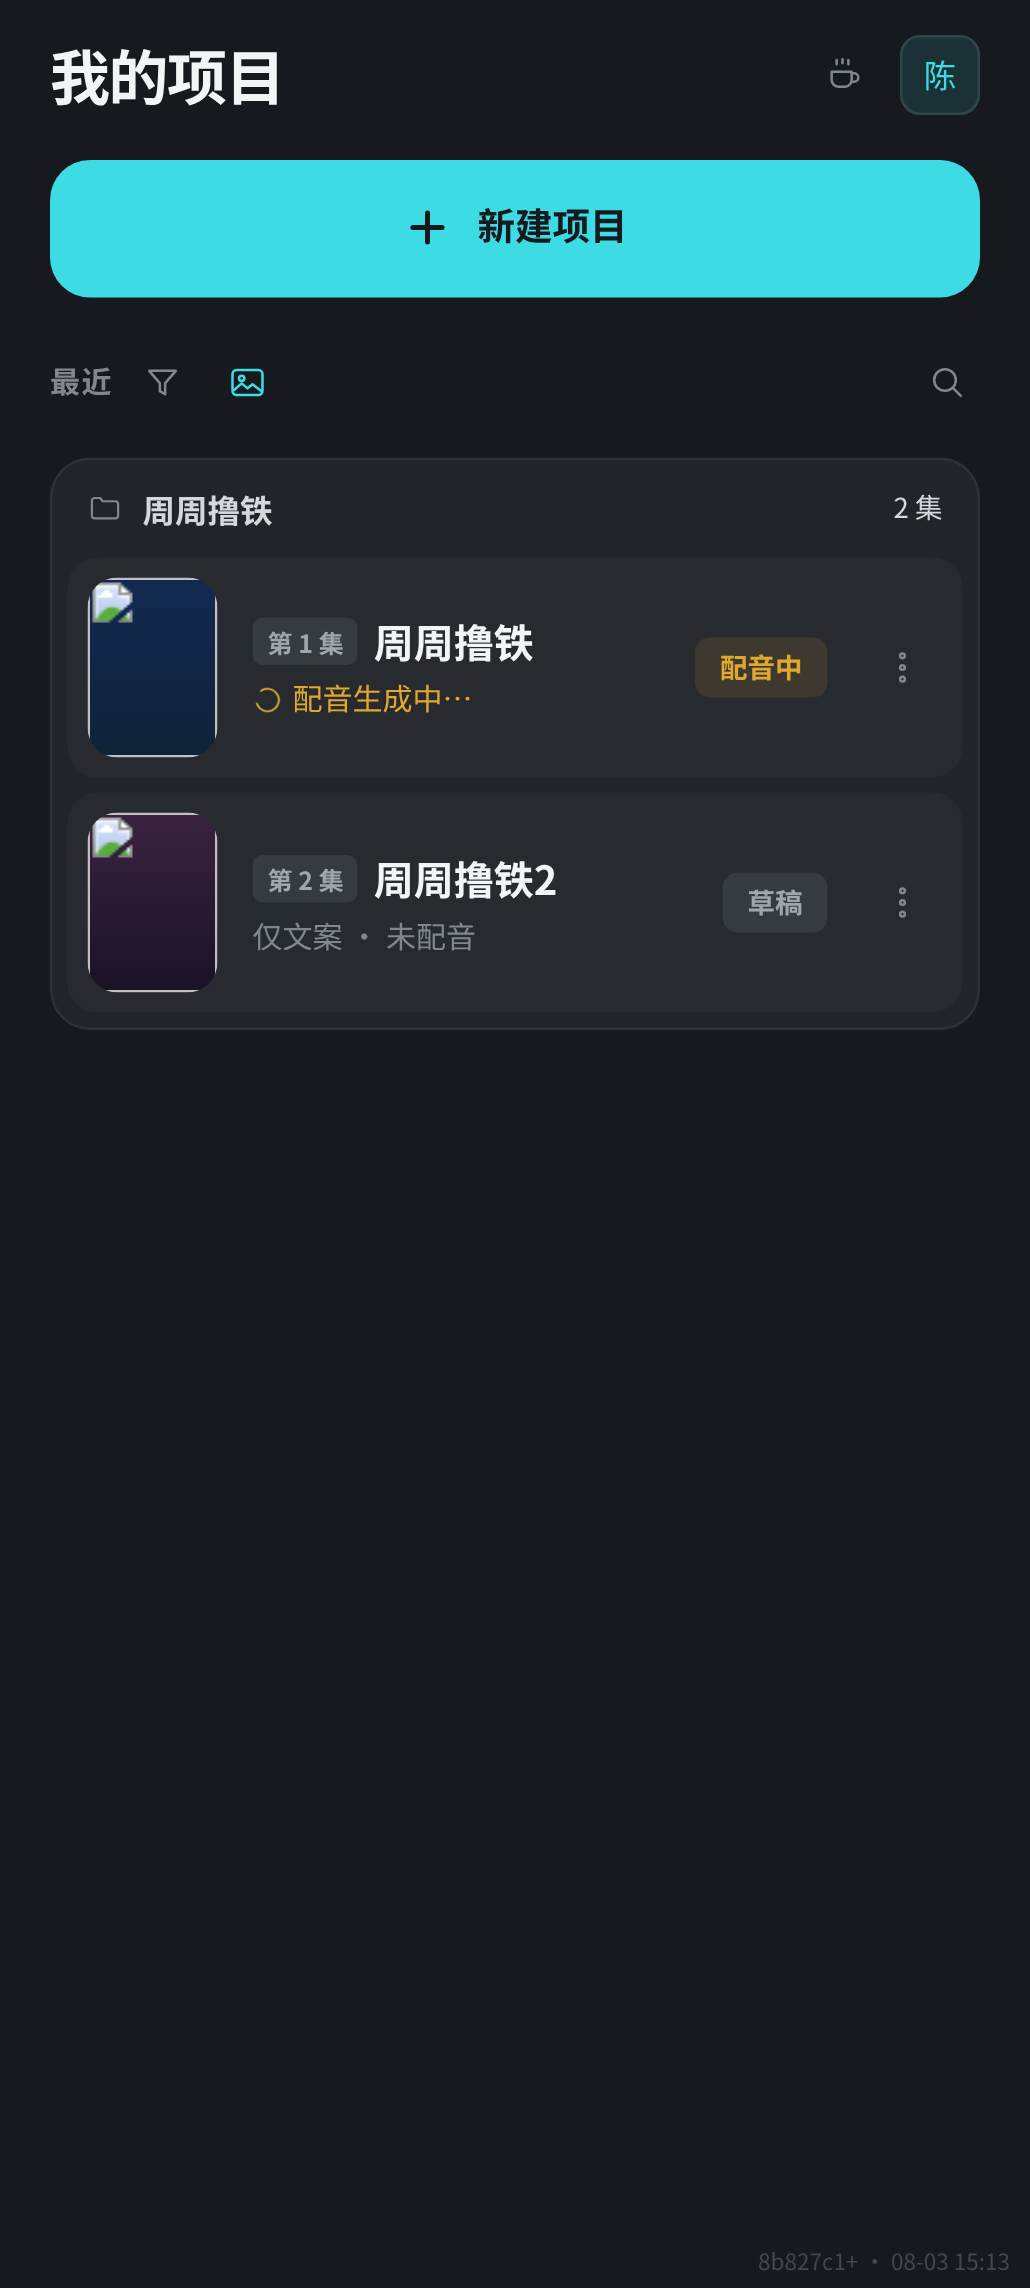
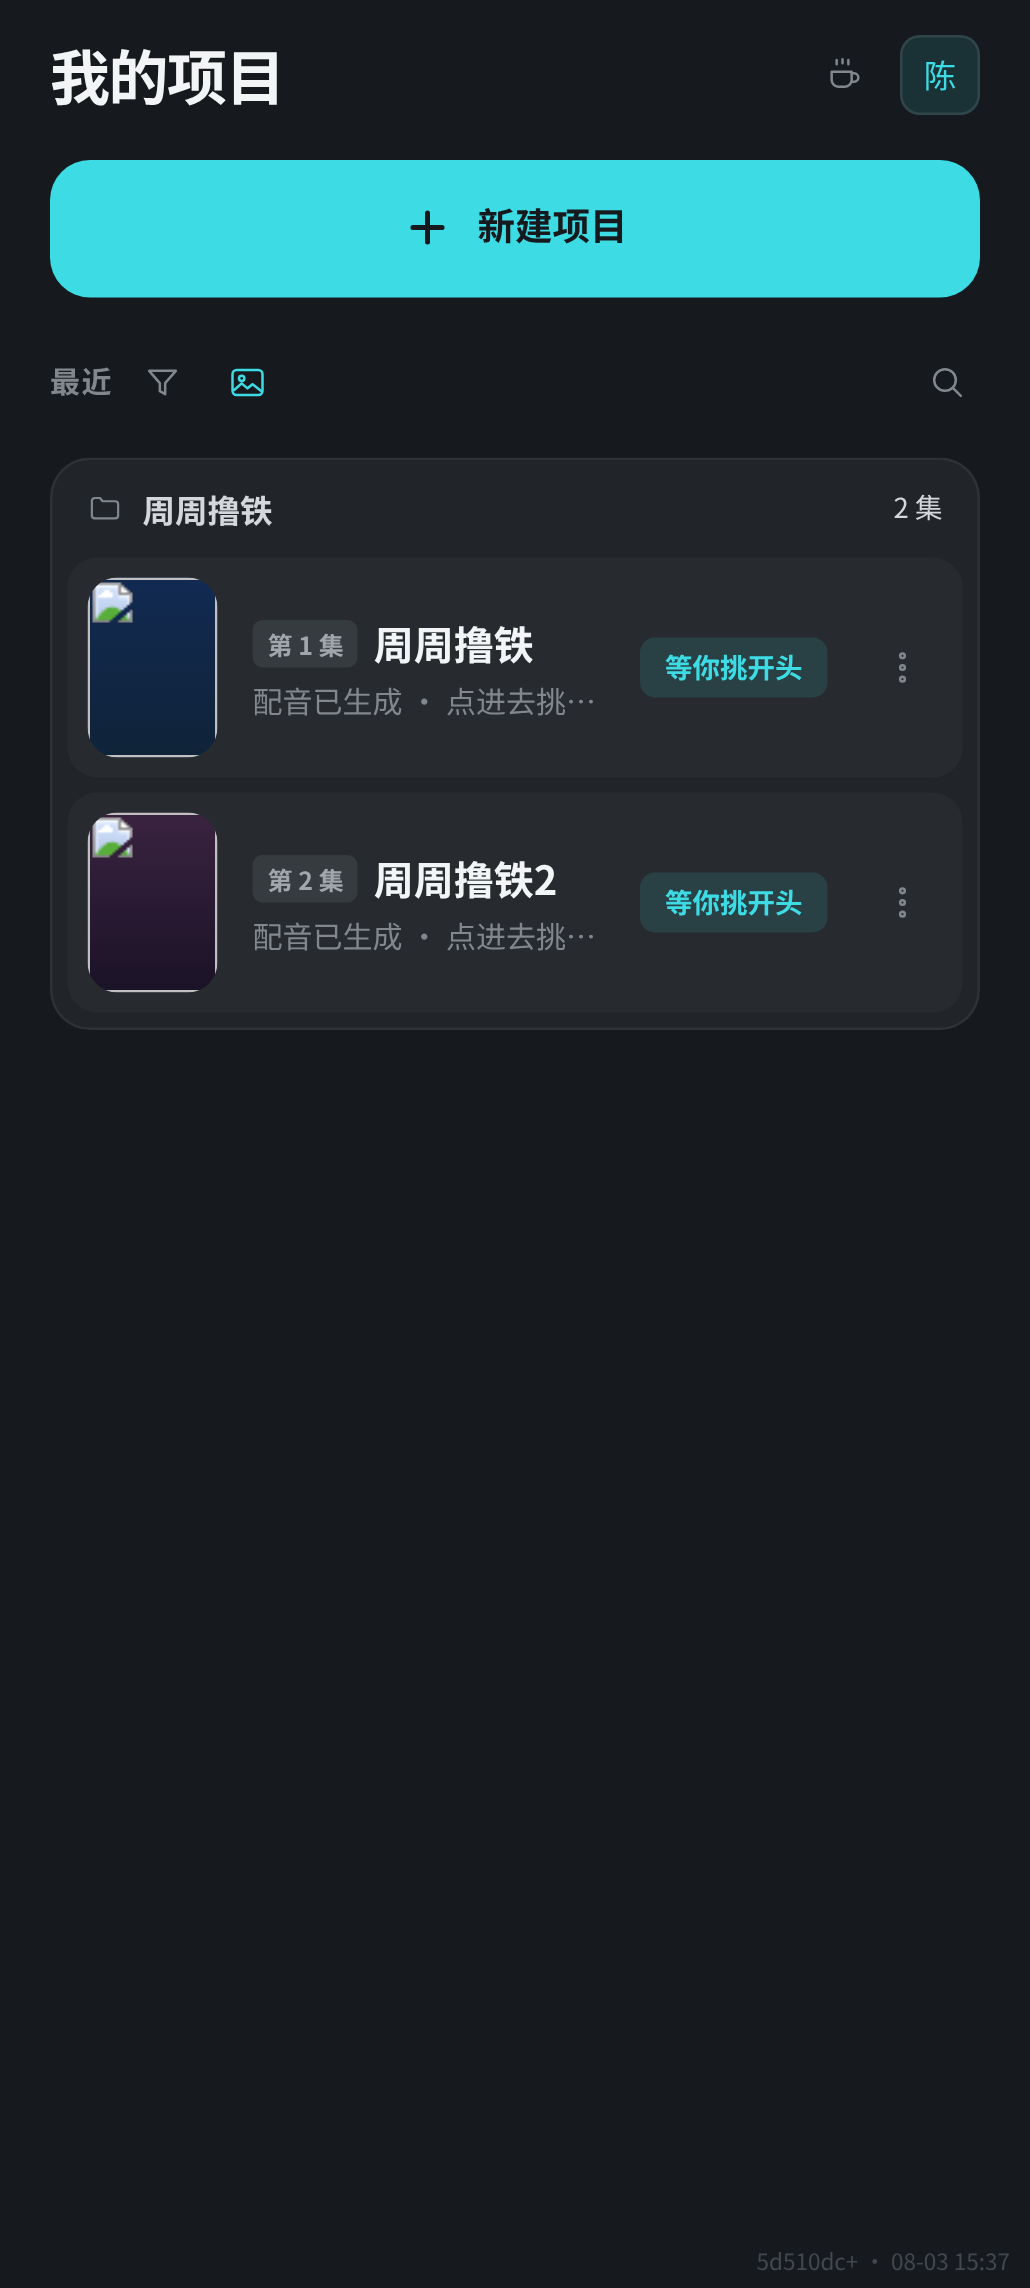
修挑开头三处：目标时长、列表状态、预览按钮位置
1 目标时长显示成"0 分 04 秒"——挑开头这一屏拿的是【进来那一刻的快照】
  （useProjects.getState()），而进来时配音才刚开始跑，ttsDurationMs 还是空的。
  开头段长度 = 配音总长 × 27%，必须等配音出结果。改成订阅 store + 配音
  没好时每 4 秒刷一次；没拿到真时长之前不画进度条，写明"配音生成中"。
  照着一个按空值算出来的额度去挑，挑一段就"满"了。

2 列表把卡在挑开头的项目显示成「已完成」/「合成中」——statusOf 只看
  ttsState 和成片状态，不知道有闸门这回事。加 opening 档且【盖过其它一切】：
  配音好了不等于完成，那条片子连烧都没开始，而且卡住流程的是用户自己。
  用强调色不用琥珀——琥珀的语义是"机器在忙，等着就行"。

3 「连着看」挪到标题右边的 ▷ 小按钮。预览是"看一眼"不是主动作，
  底部那一排只留真正要做决定的两个。

4 续集不再编造"5 段 × 20 秒"的假目标：续集那套公式是几段开头 + 全程跑酷，
  开头段根本没有目标时长，硬凑一个数只会让人以为有额度要凑满。

diff --git a/web/src/components/mobile/OpeningPicker.tsx b/web/src/components/mobile/OpeningPicker.tsx
@@ -1,5 +1,6 @@
 import { useEffect, useMemo, useState } from 'react'
 import { api } from '../../api/client'
+import { useProjects } from '../../store/projects'
 import { IconCheck, IconClose, IconLoader, IconPlay } from '../ui/Icon'
 import { OpeningPreview } from './OpeningPreview'
 
@@ -17,6 +18,13 @@ import { OpeningPreview } from './OpeningPreview'
  * ── 「用默认素材」不是"不选" ────────────────────────────────────────
  * 它是把系统现在算出来的那套排布**定下来**。后端会把默认排布物化成一份
  * 具体清单存库，所以按了它之后，重烧多少次都还是这几段。
+ *
+ * ── ⚠ 目标时长必须等【配音跑完】才算得出来 ─────────────────────────
+ * 开头段铺多长 = 配音总长 × 27%，而进这一屏的时候配音才刚开始跑。
+ * 所以这里【不能拿进来那一刻的快照】：要订阅 store、并且在配音没好之前
+ * 轮询刷新，等真时长到了再显示进度条。
+ * 踩过一次：拿快照 + 没轮询，界面上显示"目标 0 分 04 秒"——那是配音还没
+ * 出结果时的空值算出来的，用户照着这个数去挑，挑一段就"满"了。
  */
 
 interface Item { id: string; filename: string; durationMs: number }
@@ -30,11 +38,23 @@ function fmt (ms: number): string {
   return `${Math.floor(s / 60)} 分 ${String(s % 60).padStart(2, '0')} 秒`
 }
 
-export function OpeningPicker ({ projects, onDone }: {
-  /** 要挑的项目，主片在前、续集在后 */
-  projects: Array<{ id: string; name: string; ttsDurationMs: number | null; isSequel: boolean }>
+export function OpeningPicker ({ ids, onDone }: {
+  /** 要挑的项目 id，主片在前、续集在后 */
+  ids: string[]
   onDone: () => void
 }) {
+  // 【订阅】而不是快照：配音跑完时长才会出来，界面必须跟着变
+  const all = useProjects((s) => s.items)
+  const projects = ids.map((id, at) => {
+    const p = all.find((x) => x.id === id)
+    return {
+      id,
+      name: p?.name ?? '',
+      ttsState: p?.ttsState ?? 'none',
+      ttsDurationMs: p?.ttsDurationMs ?? null,
+      isSequel: at > 0,
+    }
+  })
   const [items, setItems] = useState<Item[] | null>(null)
   const [step, setStep] = useState(0)
   /** 每个项目各自挑的清单，按项目 id 存 */
@@ -49,20 +69,33 @@ export function OpeningPicker ({ projects, onDone }: {
       .catch((e: unknown) => setError(e instanceof Error ? e.message : '素材库读不出来'))
   }, [])
 
+  /*
+   * 配音还在跑就每 4 秒刷一次项目。配音一完成，ttsDurationMs 落库，
+   * 这一屏的目标时长才有意义。不轮询的话它会一直停在进来那一刻的空值。
+   */
+  const waitingVoice = projects.some((p) => (p.ttsDurationMs ?? 0) <= 0)
+  useEffect(() => {
+    if (!waitingVoice) return
+    const t = setInterval(() => { void useProjects.getState().load() }, 4000)
+    return () => { clearInterval(t) }
+  }, [waitingVoice])
+
   const current = projects[step]
   const pick = current ? picks[current.id] ?? [] : []
   const byId = useMemo(() => new Map((items ?? []).map((it) => [it.id, it])), [items])
 
   const pickedMs = pick.reduce((sum, id) => sum + (byId.get(id)?.durationMs ?? 0), 0)
   /*
-   * 目标时长：主片是总长的 27%，续集那套公式里开头段没有固定比例
-   * （几段开头 + 全程跑酷），所以按现有的 5 段惯例给个参照值。
+   * 目标时长只对主片有意义：开头段 = 配音总长 × 27%。
+   *
+   * 【续集不编一个目标出来】。续集那套公式是"几段开头 + 全程跑酷"，
+   * 开头段根本没有目标时长——挑几段就是几段，剩下全给跑酷。
+   * 硬凑一个"5 段 × 20 秒"的数只会让用户以为有个必须凑满的额度。
    */
-  const targetMs = current === undefined
+  const durationKnown = (current?.ttsDurationMs ?? 0) > 0
+  const targetMs = current === undefined || current.isSequel
     ? 0
-    : current.isSequel
-      ? 5 * 20_000
-      : Math.round((current.ttsDurationMs ?? 0) * OPENING_RATIO)
+    : Math.round((current.ttsDurationMs ?? 0) * OPENING_RATIO)
 
   function toggle (id: string): void {
     if (!current) return
@@ -97,8 +130,19 @@ export function OpeningPicker ({ projects, onDone }: {
 
   return (
     <div className="absolute inset-0 flex flex-col bg-ink-950" style={{ paddingTop: 'calc(env(safe-area-inset-top, 0px) + 12px)' }}>
-      <div className="flex items-baseline justify-between px-4 pb-2">
-        <h2 className="text-lg font-extrabold text-ink-50">挑这一集的开头</h2>
+      <div className="flex items-center justify-between px-4 pb-2">
+        <div className="flex items-center gap-2">
+          <h2 className="text-lg font-extrabold text-ink-50">挑这一集的开头</h2>
+          {/* 预览是"看一眼"，不是主动作——做成标题旁边的小按钮，
+              底部那一排只留真正要做决定的两个 */}
+          <button
+            type="button" onClick={() => setPreviewing(true)} disabled={pick.length === 0}
+            aria-label="连着看一遍"
+            className="flex size-7 items-center justify-center rounded-full border border-line text-ink-300 transition-colors enabled:hover:border-accent enabled:hover:text-accent disabled:opacity-30"
+          >
+            <IconPlay className="size-3.5" />
+          </button>
+        </div>
         <span className="font-mono text-xs text-ink-400">
           {projects.length > 1 ? `第 ${step + 1} 集 / 共 ${projects.length} 集` : current.name}
         </span>
@@ -107,15 +151,28 @@ export function OpeningPicker ({ projects, onDone }: {
       <div className="px-4 pb-2">
         <div className="flex items-baseline justify-between text-xs text-ink-300">
           <span>已选 {pick.length} 段 · {fmt(pickedMs)}</span>
-          <span className="text-ink-400">目标 {fmt(targetMs)}</span>
+          {current.isSequel
+            ? <span className="text-ink-400">默认 5 段，之后直接进跑酷</span>
+            : durationKnown
+              ? <span className="text-ink-400">目标 {fmt(targetMs)}</span>
+              : <span className="flex items-center gap-1 text-ink-400"><IconLoader className="size-3 animate-spin" />配音生成中</span>}
         </div>
-        <div className="mt-1.5 h-1.5 overflow-hidden rounded-full bg-ink-800">
-          <div
-            className="h-full rounded-full bg-accent transition-[width] duration-200"
-            style={{ width: `${targetMs > 0 ? Math.min(100, (pickedMs / targetMs) * 100) : 0}%` }}
-          />
-        </div>
-        {pickedMs < targetMs && pick.length > 0 && (
+        {/* 目标时长要等配音出来才算得准，没出来之前不画进度条——
+            画一根按空值算的条，等于给用户一个错的额度 */}
+        {!current.isSequel && durationKnown && (
+          <div className="mt-1.5 h-1.5 overflow-hidden rounded-full bg-ink-800">
+            <div
+              className="h-full rounded-full bg-accent transition-[width] duration-200"
+              style={{ width: `${targetMs > 0 ? Math.min(100, (pickedMs / targetMs) * 100) : 0}%` }}
+            />
+          </div>
+        )}
+        {!current.isSequel && !durationKnown && (
+          <p className="mt-1 text-[11px] text-ink-400">
+            开头要铺多长是按配音总长算的（27%）。配音还在生成，先挑着，算好了这儿会显示目标。
+          </p>
+        )}
+        {!current.isSequel && durationKnown && pickedMs < targetMs && pick.length > 0 && (
           <p className="mt-1 text-[11px] text-ink-400">还差 {fmt(targetMs - pickedMs)}，不补满也行，剩下的自动接。</p>
         )}
       </div>
@@ -174,12 +231,6 @@ export function OpeningPicker ({ projects, onDone }: {
           className="flex-1 rounded-xl border border-line px-3 py-3 text-sm font-bold text-ink-300 disabled:opacity-40"
         >
           用默认素材
-        </button>
-        <button
-          type="button" onClick={() => setPreviewing(true)} disabled={pick.length === 0}
-          className="flex items-center gap-1 rounded-xl border border-line px-3 py-3 text-sm font-bold text-ink-300 disabled:opacity-40"
-        >
-          <IconPlay className="size-4" />连着看
         </button>
         <button
           type="button" onClick={() => void settle(true)} disabled={busy || pick.length === 0}

diff --git a/web/src/components/mobile/MobileProjectList.tsx b/web/src/components/mobile/MobileProjectList.tsx
@@ -26,9 +26,17 @@ import {
  */
 
 /** 项目此刻处在哪一步。成片状态来自列表轮询（filmProgress） */
-type Status = 'draft' | 'voicing' | 'render' | 'failed' | 'done'
+type Status = 'draft' | 'voicing' | 'opening' | 'render' | 'failed' | 'done'
 
 function statusOf (p: Project, film?: { composing: boolean; state: string }): Status {
+  /*
+   * 【"等你挑开头"要盖过其它一切】。这条片子的合成正被闸门拦着：
+   * 配音可能已经好了（ttsState==='ready'），但那不等于"已完成"——
+   * 显示成已完成的话，用户以为片子能下载了，实际上它连烧都没开始，
+   * 而且他自己才是那个卡住流程的人。踩过：主片显示「已完成」、
+   * 续集显示「合成中」，可两条其实都停在挑开头这一步。
+   */
+  if (p.openingState === 'pending') return 'opening'
   if (film?.composing) return 'render'
   if (p.ttsState === 'generating') return 'voicing'
   /*
@@ -46,6 +54,8 @@ const STATUS_STYLE: Record<Status, { label: string; cls: string }> = {
   // 强调色留给"完成"。
   voicing: { label: '配音中', cls: 'text-[#e0a82e] bg-[#e0a82e]/12' },
   render: { label: '合成中', cls: 'text-[#e0a82e] bg-[#e0a82e]/12' },
+  // 要用户动手的状态，用强调色而不是琥珀：琥珀是"机器在忙，等着就行"
+  opening: { label: '等你挑开头', cls: 'text-accent bg-accent/12' },
   failed: { label: '未完成', cls: 'text-danger bg-danger/12' },
   draft: { label: '草稿', cls: 'text-ink-300 bg-ink-800' },
 }
@@ -55,6 +65,10 @@ function summaryOf (p: Project): string {
   const head = (p.scriptText ?? '').trim().replace(/\s+/g, '')
   const secs = p.ttsDurationMs ? Math.round(p.ttsDurationMs / 1000) : null
   const dur = secs !== null ? `${Math.floor(secs / 60)}:${String(secs % 60).padStart(2, '0')}` : null
+  // 卡在挑开头时，摘要要说清楚"在等什么"，别让人以为是机器在忙
+  if (p.openingState === 'pending') {
+    return [p.ttsState === 'generating' ? '配音生成中' : '配音已生成', '点进去挑开头'].join(' · ')
+  }
   if (p.ttsState === 'ready') {
     const byo = p.subtitleMode === 'line' ? '自备配音' : '配音已生成'
     return [head ? head.slice(0, 12) : byo, dur].filter(Boolean).join(' · ')

diff --git a/web/src/components/mobile/MobileNewProject.tsx b/web/src/components/mobile/MobileNewProject.tsx
@@ -128,21 +128,8 @@ export function MobileNewProject ({ onBack, onGo, resumeId }: {
   const canGenerate = script.trim().length > 0 && !gated && busy === null
 
   if (picking !== null) {
-    const all = useProjects.getState().items
-    return (
-      <OpeningPicker
-        projects={picking.map((pid, at) => {
-          const p = all.find((x) => x.id === pid)
-          return {
-            id: pid,
-            name: p?.name ?? '',
-            ttsDurationMs: p?.ttsDurationMs ?? null,
-            isSequel: at > 0,
-          }
-        })}
-        onDone={() => onGo(picking[0]!)}
-      />
-    )
+    // 只传 id：项目数据由 OpeningPicker 自己订阅，配音跑完时长才会出来
+    return <OpeningPicker ids={picking} onDone={() => onGo(picking[0]!)} />
   }
 
   return (

diff --git a/web/src/pages/MobileWorkspace.tsx b/web/src/pages/MobileWorkspace.tsx
@@ -187,11 +187,9 @@ export function MobileWorkspace () {
         ) : screen === 'opening' && project ? (
           /* 挑到一半退出去了：点回来接着挑。续集也在这条线上 */
           <OpeningPicker
-            projects={[project, ...useProjects.getState().items.filter((x) => x.parentProjectId === project.id)]
+            ids={[project, ...useProjects.getState().items.filter((x) => x.parentProjectId === project.id)]
               .filter((x) => x.openingState === 'pending')
-              .map((x, at) => ({
-                id: x.id, name: x.name, ttsDurationMs: x.ttsDurationMs, isSequel: at > 0,
-              }))}
+              .map((x) => x.id)}
             onDone={() => { replace({ k: 'editor' }) }}
           />
         ) : screen === 'newproject' ? (
